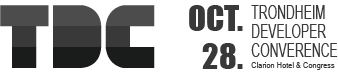
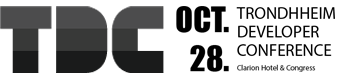
Added changes to some margins, fontsize, fontfamily and styled some buttons

diff --git a/src/Root.tsx b/src/Root.tsx
@@ -35,7 +35,7 @@ const Root: React.FC = () => {
                 </div>
             </div>
 
-            <div className="container-fluid second p-0 m-0">
+            <div className="container-fluid second p-5 m-2">
                 <div className="d-md-flex flex-md-equal">
                     <div className="col-md-6 p-0 m-0">
                         <img src={index01} className="img-fluid mb-5 border-bottom-right" width="80%" alt=''/>
@@ -100,7 +100,7 @@ const Root: React.FC = () => {
                 <div className="container">
                     <div className="row">
                         <div className="col-md-3 where text-left">
-                            <h5 className="p-2 text-white">Where?</h5>
+                            <h5 className="p-2 text-dark">Where?</h5>
 
                             <div className="where py-4 pl-5 text-white">
                                 Clarion Congress<br/>
@@ -111,7 +111,7 @@ const Root: React.FC = () => {
                             </div>
                         </div>
                         <div className="col-md-3 where text-left">
-                            <h5 className="p-2 text-white">When?</h5>
+                            <h5 className="p-2 text-dark">When?</h5>
                             <div className="where py-4 pl-5 text-white">
                                 October 28.<br/>
                                 2019,<br/>
@@ -121,7 +121,7 @@ const Root: React.FC = () => {
                             </div>
                         </div>
                         <div className="col-md-3 where text-left">
-                            <h5 className="p-2 text-white">Speakers</h5>
+                            <h5 className="p-2 text-dark">Speakers</h5>
                             <div className="where py-4 pl-5 text-white">
                                 30 speakers<br/>
                                 &nbsp;<br/>
@@ -131,7 +131,7 @@ const Root: React.FC = () => {
                             </div>
                         </div>
                         <div className="col-md-3 where text-left">
-                            <h5 className="p-2 text-white">Stands</h5>
+                            <h5 className="p-2 text-dark">Stands</h5>
                             <div className="where py-4 pl-5 text-white">
                                 29 stands<br/>
                                 &nbsp;<br/>
@@ -146,7 +146,7 @@ const Root: React.FC = () => {
             <div className="container fifth pt-5 pb-4 text-center">
                 <div className="row">
                     <div className="col-md-6 where text-right text-white pr-5">
-                        <h2>Questions?</h2>
+                        <h3>Questions?</h3>
                     </div>
                     <div className="col-md-6 where text-left text-white">
                         <p>Do not hesitate to contact us if you have any questions. Contact us by
@@ -162,14 +162,14 @@ const Root: React.FC = () => {
                 </div>
                 <div className="row mt-5">
                     <div className="col-md-6 where text-right text-white pr-5">
-                        <h2>Organizers</h2>
+                        <h3>Organizers</h3>
                     </div>
                     <div className="col-md-6 where text-left text-white">
                         <p>TDC is organize by people from the IT-community in Trondheim, mostly as a cooperation between
                             the many meetups in the area.</p>
 
                         <p>The members of the 2019 Program Commitee are:</p>
-                        <ul>
+                        <ul className="members">
                             <li>Alexander Samsig (javaBin)</li>
                             <li>Anders Aabakken (NNUG)</li>
                             <li>Anders Kringstad (Dataforeningen)</li>

diff --git a/src/program/Program.tsx b/src/program/Program.tsx
@@ -237,24 +237,24 @@ interface FilterProps {
 }
 function FilterContainer (props: FilterProps) {
     return (
-        <div className="program-filter row">
+        <div className="program-filter container">
             <div className="row">
-                <div>
+                <div className="col-md-6">
                     <div className="program-filter-header">Language</div>
                     <div className="program-filter-button-group">
-                        <button className="program-filter-button " onClick={(e) => {
+                        <button className="program-filter-button btn btn-primary" onClick={(e) => {
                             const {filter} = props;
                             props.updateFilter(filter.withLanguage('both'))
                         }}>
                             Both
                         </button>
-                        <button className="program-filter-button " onClick={(e) => {
+                        <button className="program-filter-button btn btn-primary" onClick={(e) => {
                             const {filter} = props;
                             props.updateFilter(filter.withLanguage('no'))
                         }}>
                             Norwegian
                         </button>
-                        <button className="program-filter-button "
+                        <button className="program-filter-button btn btn-primary"
                                 onClick={(e) => {
                                     const {filter} = props;
                                     props.updateFilter(filter.withLanguage('en'))
@@ -265,36 +265,38 @@ function FilterContainer (props: FilterProps) {
                 </div>
             </div>
             <div className="row">
+                <div className="col-md-6">
                 <div className="program-filter-header">Format</div>
                 <div className="program-filter-button-group">
-                    <button className="program-filter-button"
+                    <button className="program-filter-button btn btn-primary"
                             onClick={(e) => {
                                 const {filter} = props;
                                 props.updateFilter(filter.withFormat('all'))
                             }}>
                         All
                     </button>
-                    <button className="program-filter-button"
+                    <button className="program-filter-button btn btn-primary"
                             onClick={(e) => {
                                 const {filter} = props;
                                 props.updateFilter(filter.withFormat('presentation'))
                             }}>
                         Presentations
                     </button>
-                    <button className="program-filter-button"
+                    <button className="program-filter-button btn btn-primary"
                             onClick={(e) => {
                                 const {filter} = props;
                                 props.updateFilter(filter.withFormat('workshop'))
                             }}>
                         Workshops
                     </button>
-                    <button className="program-filter-button"
+                    <button className="program-filter-button btn btn-primary"
                             onClick={(e) => {
                                 const {filter} = props;
                                 props.updateFilter(filter.withFormat('fav'))
                             }}>
                         My Favorites
                     </button>
+                </div>
                 </div>
             </div>
         </div>

diff --git a/src/index.css b/src/index.css
@@ -9,6 +9,8 @@
  * TDC light purple: #bdaad2
  */
 
+@import url('https://fonts.googleapis.com/css?family=Source+Sans+Pro');
+
 /*
  * Main
  */
@@ -19,9 +21,9 @@ html {
 
 body {
   background-color: #292929;
-  font-family: sans-serif;
+  font-family: "Source Sans Pro";
   margin-bottom: 200px;
-  font-size: 17px;
+  font-size: 18px;
 }
 
 a {
@@ -32,6 +34,18 @@ a {
 a:hover {
   color: #FFF;
   text-decoration: none;
+}
+
+h1 {
+  font-size: 40px;
+}
+
+h2 {
+  font-size: 36px;
+}
+
+h3 {
+  font-size: 30px;
 }
 
 h5 {
@@ -118,6 +132,26 @@ h5 {
   -moz-background-size: cover;
   background-size: cover;
   -o-background-size: cover;
+  padding: 120px 0 120px 0;
+  margin-bottom: 100px;
+}
+
+.members ul {
+  list-style: none;
+  margin-left: 0;
+  padding-left: 0;
+}
+
+.members li {
+  list-style: none;
+  text-indent: -1em;
+}
+
+.members li:before {
+  color: #f38274;
+  content: "\2014";
+  padding-right: 10px;
+  padding-left: 5px;
 }
 
 .footer {
@@ -171,6 +205,19 @@ nav .navbar-nav li a{
   background: #80BE8A;
 }
 
+.btn-primary {
+  font-size: 1.3em;
+  border: 0px;
+  background: #A9DDB1;
+  transition: all 0.3s ease 0s;
+  margin: 3px 3px;
+  padding: 0px 4px;
+  color: #000;
+}
+
+.btn-primary:hover {
+  background: #88ba90;
+}
 
 .calendar-event {
   background-color: #807bb9;
